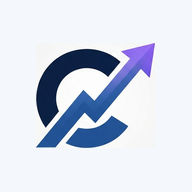
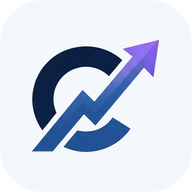
Icones novos

diff --git a/sw.js b/sw.js
@@ -1,9 +1,9 @@
 // Career Hub — service worker: internet primeiro, cópia guardada se estiver offline.
 // Quando sai versão nova, atualiza e recarrega a página sozinho.
-const CACHE = "career-hub-v3";
+const CACHE = "career-hub-v4";
 const ARQUIVOS = [
   "./", "index.html", "style.css", "script.js", "clubes.js", "selecoes.js",
-  "firebase-config.js", "nuvem.js", "logo.png", "icon-192.png", "icon-512.png", "manifest.webmanifest"
+  "firebase-config.js", "nuvem.js", "logo.png", "icon-192.png", "icon-512.png", "icon-maskable-192.png", "icon-maskable-512.png", "apple-touch-icon.png", "manifest.webmanifest"
 ];
 
 self.addEventListener("install", function (evento) {

diff --git a/index.html b/index.html
@@ -11,7 +11,7 @@
   <meta name="apple-mobile-web-app-status-bar-style" content="black-translucent">
   <title>Career Hub</title>
   <link rel="icon" type="image/png" href="logo.png">
-  <link rel="apple-touch-icon" href="icon-192.png">
+  <link rel="apple-touch-icon" href="apple-touch-icon.png">
   <link rel="preconnect" href="https://fonts.googleapis.com">
   <link rel="preconnect" href="https://fonts.gstatic.com" crossorigin>
   <link href="https://fonts.googleapis.com/css2?family=DM+Sans:wght@400;500;600;700&family=Sora:wght@600;700&display=swap" rel="stylesheet">
